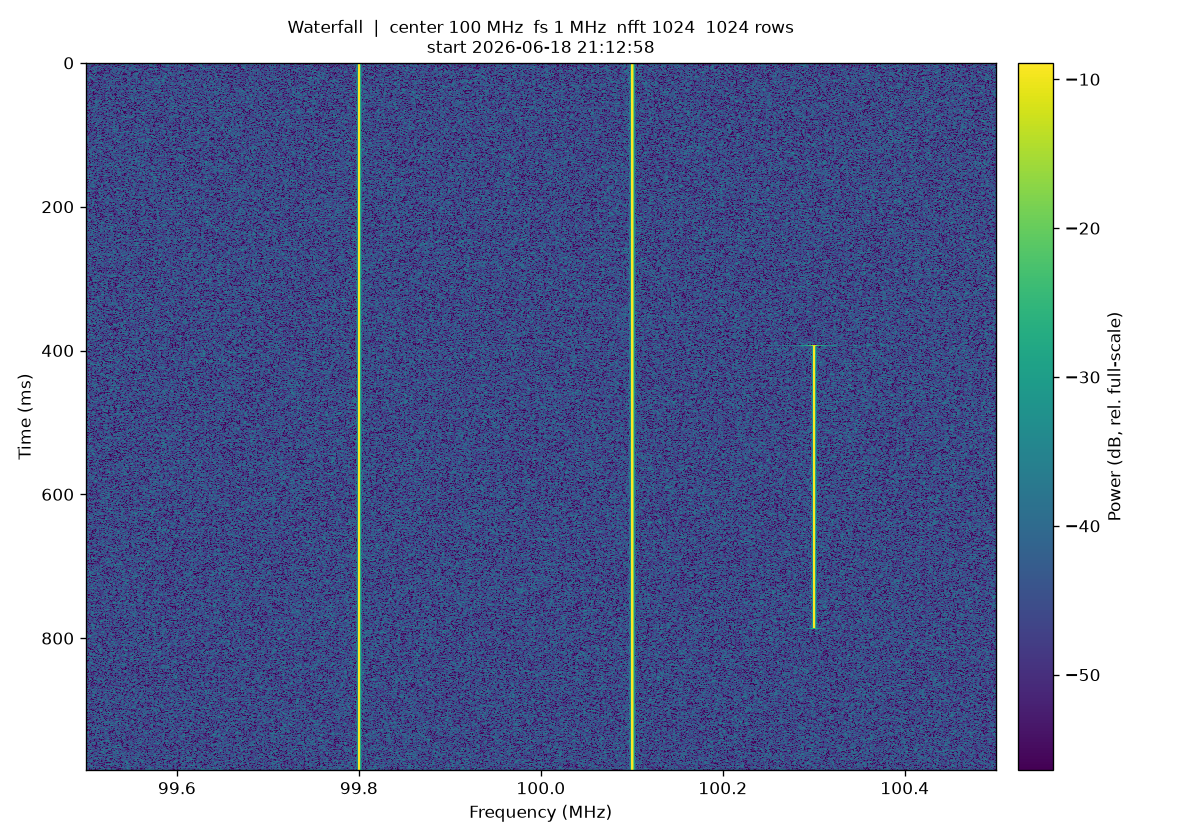
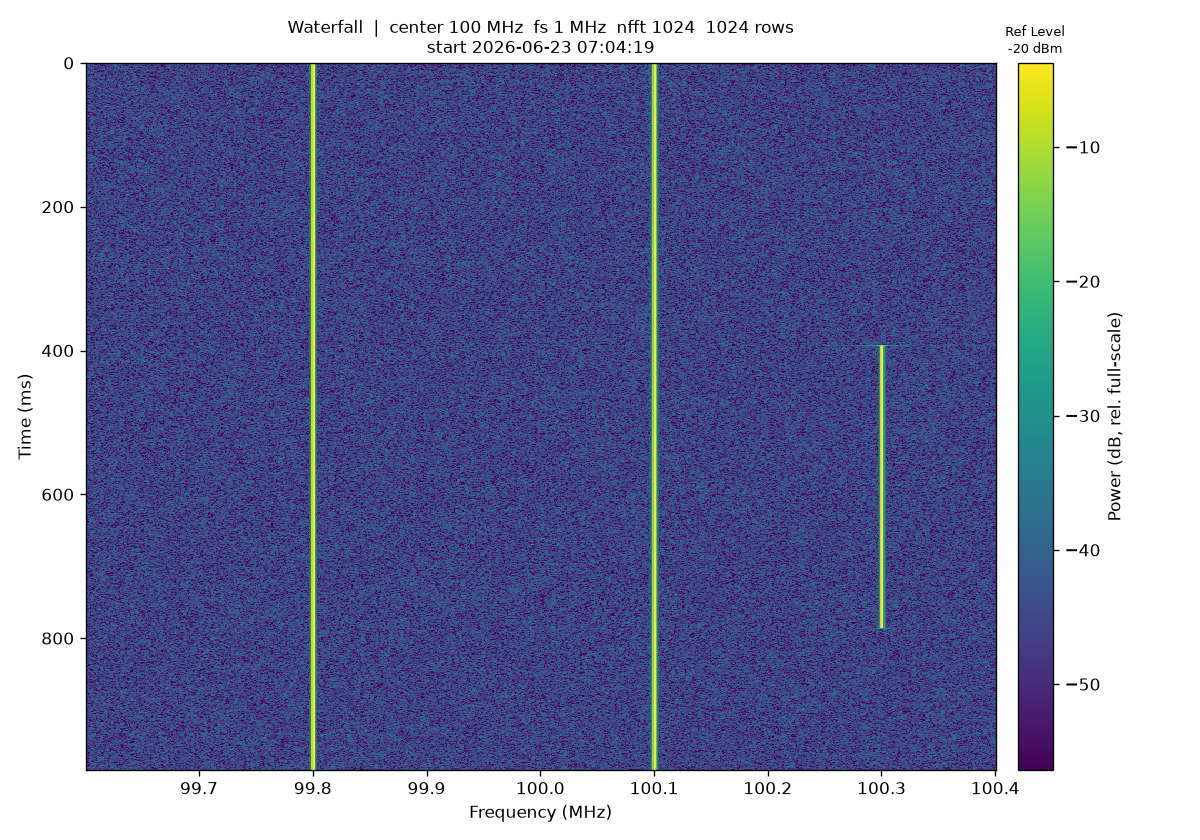
feat: add ref_level annotation
Simple visual label above dBFS bar. Reads from meta params or via cli

diff --git a/waterfall.py b/waterfall.py
@@ -197,6 +197,25 @@ def resolve_bandwidth(
     return bw
 
 
+def load_ref_level(rx_dir: str) -> float | None:
+    """Read the optional ``parameters.ref_level`` (radio reference level, dB).
+
+    Surfaced purely as a debug annotation on the plot -- it does not affect the
+    DSP or normalization. Returns ``None`` when absent or unparseable.
+    """
+    meta_path = os.path.join(rx_dir, "meta.yaml")
+    if not os.path.exists(meta_path):
+        return None
+    with open(meta_path) as f:
+        meta = yaml.safe_load(f) or {}
+    params = meta.get("parameters", {}) if isinstance(meta, dict) else {}
+    rl = params.get("ref_level")
+    try:
+        return float(rl) if rl is not None else None
+    except (TypeError, ValueError):
+        return None
+
+
 def find_schemes(rx_dir: str, explicit: str | None) -> str | None:
     """Locate a transmitter ``schemes.yaml`` to overlay on the time axis.
 
@@ -447,6 +466,7 @@ def plot_waterfall(
     total_samples,
     schemes=(),
     rec_t0_epoch=None,
+    ref_level=None,
 ) -> None:
     import matplotlib
 
@@ -481,6 +501,9 @@ def plot_waterfall(
     ax.set_ylabel(f"Time ({tunit})")
     cbar = fig.colorbar(im, ax=ax, pad=0.02)
     cbar.set_label("Power (dB, rel. full-scale)")
+    # Debug annotation: the radio's configured reference level, if recorded.
+    if ref_level is not None and np.isfinite(ref_level):
+        cbar.ax.set_title(f"Ref Level\n{ref_level:g} dBm", fontsize=8, pad=6)
 
     rows = spec.shape[0]
     title = (
@@ -591,6 +614,12 @@ def parse_args(argv=None) -> argparse.Namespace:
         "--full-band",
         action="store_true",
         help="Show the full sample-rate span; disable bandwidth cropping.",
+    )
+    p.add_argument(
+        "--ref-level",
+        type=float,
+        help="Radio reference level (dB) shown as a debug label above the "
+        "color scale. Default: parameters.ref_level from meta.yaml, if present.",
     )
     p.add_argument(
         "--average",
@@ -711,6 +740,9 @@ def main(argv=None) -> None:
     abs_start = float(ts[start_frame]) if start_frame < len(ts) else None
     rec_t0 = float(ts[0]) if len(ts) else None
 
+    # Reference level: CLI override, else meta.yaml, else None (no annotation).
+    ref_level = args.ref_level if args.ref_level is not None else load_ref_level(rx_dir)
+
     schemes = []
     if not args.no_schemes:
         schemes_path = find_schemes(rx_dir, args.schemes)
@@ -733,6 +765,7 @@ def main(argv=None) -> None:
         total_samples,
         schemes,
         rec_t0,
+        ref_level=ref_level,
     )
 
 

diff --git a/tests/test_waterfall.py b/tests/test_waterfall.py
@@ -102,6 +102,7 @@ def make_recording(
             "bandwidth": float(0.8 * fs),
             "capture_duration": float(captures * cap_dur),  # TOTAL (real-world quirk)
             "center_frequency": float(fc),
+            "ref_level": -20.0,
         },
     }
     with open(os.path.join(rx, "meta.yaml"), "w") as f:
@@ -465,6 +466,32 @@ def main():
             vmin_crop > vmin_full + 20,
             f"vmin full={vmin_full:.1f} dB -> cropped={vmin_crop:.1f} dB",
         )
+
+        # --- 10. optional ref_level debug annotation ---
+        print("\n[10] ref_level read from meta.yaml (debug annotation)")
+        check(
+            "ref_level read from parameters.ref_level",
+            wf.load_ref_level(rx_dir) == -20.0,
+            f"{wf.load_ref_level(rx_dir)}",
+        )
+        # the 'real' rx dir (section [0]) has no ref_level -> None, not a crash
+        check(
+            "absent ref_level returns None",
+            wf.load_ref_level(real) is None,
+        )
+        # CLI precedence: --ref-level overrides meta; 0 dB is honored (not None).
+        ns = wf.parse_args([rx_dir, "--ref-level", "5"])
+        eff = ns.ref_level if ns.ref_level is not None else wf.load_ref_level(rx_dir)
+        check("--ref-level overrides meta value", eff == 5.0, f"{eff}")
+        ns0 = wf.parse_args([rx_dir, "--ref-level", "0"])
+        check("--ref-level 0 is honored (not treated as unset)", ns0.ref_level == 0.0)
+        ns_none = wf.parse_args([rx_dir])
+        eff_none = (
+            ns_none.ref_level
+            if ns_none.ref_level is not None
+            else wf.load_ref_level(rx_dir)
+        )
+        check("no --ref-level falls back to meta", eff_none == -20.0, f"{eff_none}")
 
         print(f"\n==== {PASS} passed, {FAIL} failed ====")
         sys.exit(1 if FAIL else 0)

diff --git a/make_test_data.py b/make_test_data.py
@@ -163,6 +163,7 @@ def main() -> None:
             "capture_duration": float(capture_duration),
             "center_frequency": float(args.center_freq),
             "stop_if_sample_loss": False,
+            "ref_level": -5.0
         },
     }
     with open(os.path.join(rx_dir, "meta.yaml"), "w") as f: